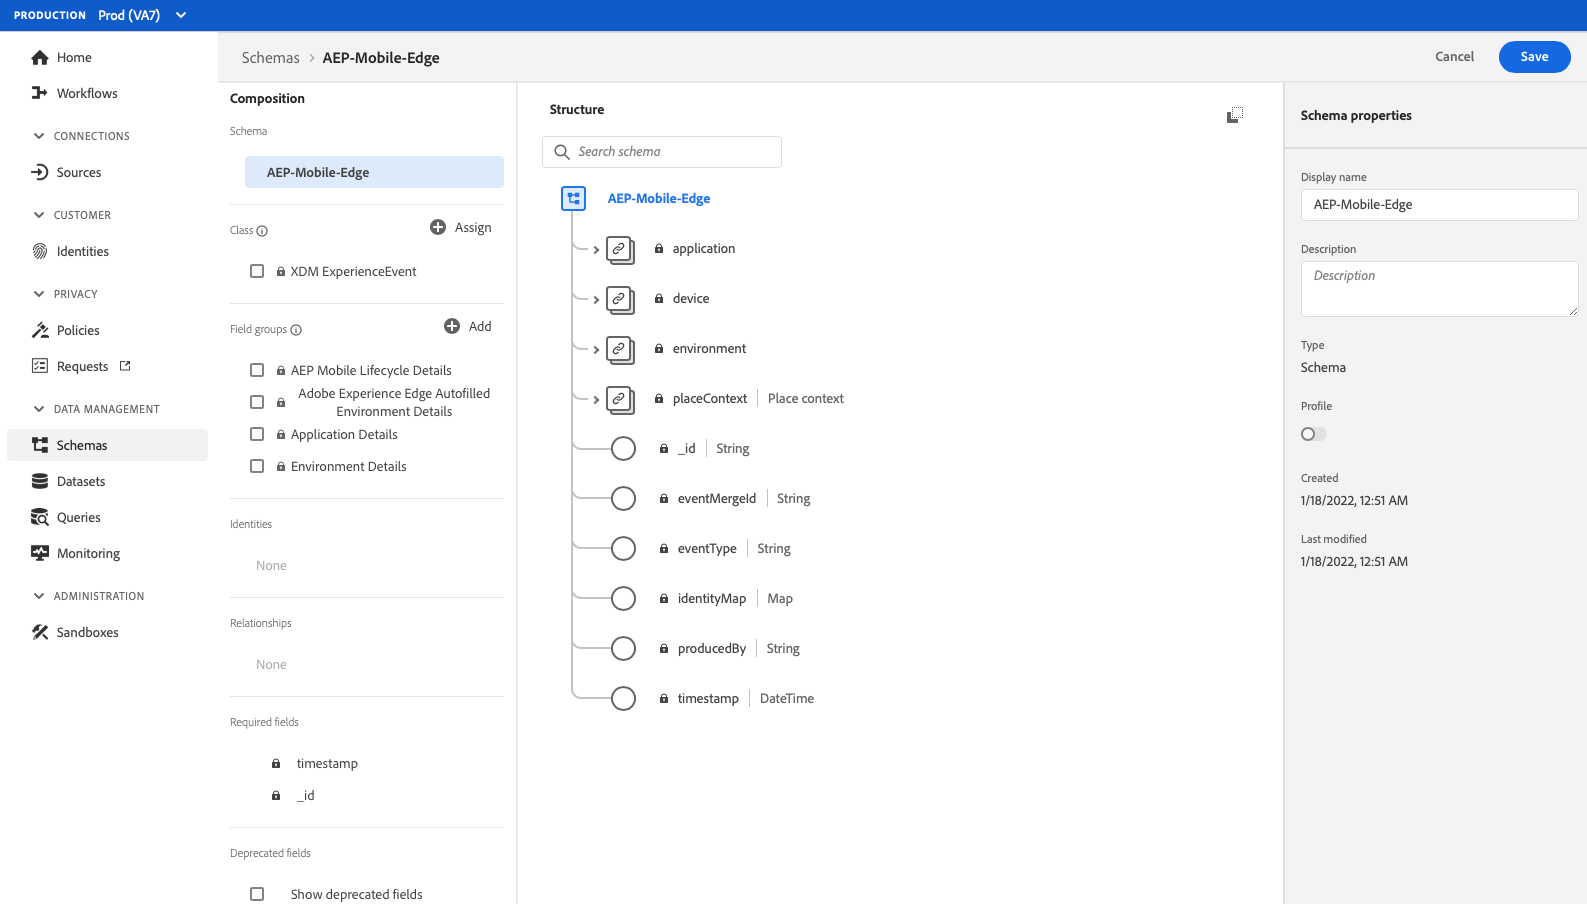
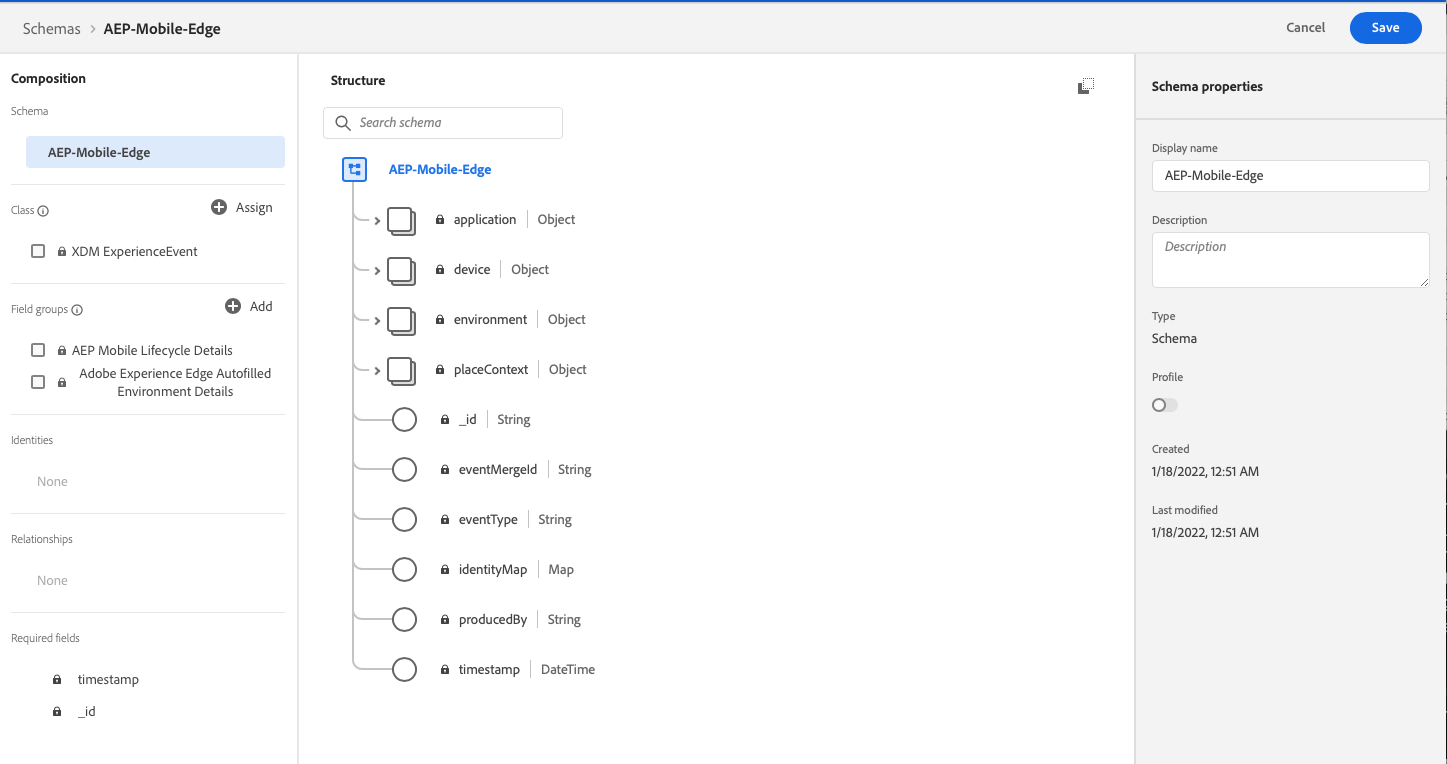
Update with latest review comments
Update with latest review comments

diff --git a/foundation-extensions/experience-platform-extension/edge-network-api-reference.md b/foundation-extensions/experience-platform-extension/edge-network-api-reference.md
@@ -116,10 +116,14 @@ static func sendEvent(experienceEvent: ExperienceEvent, _ completion: (([EdgeEve
 var xdmData : [String: Any] = ["eventType" : "SampleXDMEvent",
                               "sample": "data"]
 let experienceEvent = ExperienceEvent(xdm: xdmData)
+```
 
+```swift
 // example 1 - send the experience event without handling the Edge Network response
 Edge.sendEvent(experienceEvent: experienceEvent)
+```
 
+```swift
 // example 2 - send the experience event and handle the Edge Network response onComplete
 Edge.sendEvent(experienceEvent: experienceEvent) { (handles: [EdgeEventHandle]) in
             // handle the Edge Network response
@@ -135,11 +139,17 @@ Edge.sendEvent(experienceEvent: experienceEvent) { (handles: [EdgeEventHandle]) 
 ```
 
 **Example**
+```objectivec
+//create experience event from dictionary:
+NSDictionary *xdmData = @{ @"eventType" : @"SampleXDMEvent"};
+NSDictionary *data = @{ @"sample" : @"data"};
+```
 
 ```objectivec
 // example 1 - send the experience event without handling the Edge Network response
 [AEPMobileEdge sendExperienceEvent:event completion:nil];
-
+```
+```objectivec
 // example 2 - send the experience event and handle the Edge Network response onComplete
 [AEPMobileEdge sendExperienceEvent:event completion:^(NSArray<AEPEdgeEventHandle *> * _Nonnull handles) {
   // handle the Edge Network response
@@ -217,29 +227,20 @@ Use the AEPMobileCore API to register the Edge extension.
 
 ## resetIdentities
 
-Clears all the states stored in the Edge extension.
+Resets current state of the AEP Edge extension and clears previously cached content related to current identity, if any.
 
 See [MobileCore.resetIdentities](../mobile-core/mobile-core-api-reference.md#resetidentities) for more details.
 
 ## Public classes
 
-### Schema interface
+### XDM Schema
 
+The AEP Edge extension provides the Schema and Property interfaces (Android) / XDMSchema protocol (iOS) that can be used to define the classes associated with your XDM schema in Adobe Experience Platform.
 
 {% tabs %}
 {% tab title="Android" %}
 
 ### Java
-
-**Schema and property interface**
-
-The Edge extension provides the following interfaces:
-
-* Schema
-
-* Property
-
-By using the Edge extension, the **Schema** interface can be used to define the classes that are associated with your defined schema in Adobe Experience Platform.
 
 ```java
 /**
@@ -286,20 +287,13 @@ public interface Property {
     Map<String, Object> serializeToXdm();
 }
 ```
-
-When defining your custom XDM Schema\(s\), implement these interfaces to ensure that the AEP Edge extension successfully serializes the provided data before sending it to Adobe Experience Platform Edge Network.
+When defining your custom XDM schema(s), implement these interfaces to ensure that the AEP Edge extension successfully serializes the provided data before sending it to Adobe Experience Platform Edge Network.
 
 {% endtab %}
 
 {% tab title="iOS (AEP 3.x)" %}
 
 ### Swift
-
-The Edge extension provides the following interface:
-
-* XDMSchema
-
-By using the Edge extension, the **XDMSchema** interface can be used to define the classes that are associated with your defined schema in Adobe Experience Platform.
 
 ```swift
 /// An interface representing a Platform XDM Event Data schema.
@@ -325,7 +319,7 @@ public protocol XDMSchema: Encodable {
 
 ### EdgeEventHandle
 
-The `EdgeEventHandle` is a response fragment from Adobe Experience Platform Edge Service for a sent XDM Experience Event.
+The `EdgeEventHandle` is a response fragment from Adobe Experience Platform Edge Network for a sent XDM Experience Event.
 One event can receive none, one or multiple `EdgeEventHandle`(s) as response.
 
 {% tabs %}
@@ -359,10 +353,6 @@ public class EdgeEventHandle {
 ```swift
 @objc(AEPEdgeEventHandle)
 public class EdgeEventHandle: NSObject, Codable {
-
-    /// Encodes the event to which this handle is attached as the index in the events array in EdgeRequest
-    internal let eventIndex: Int?
-
     /// Payload type
     @objc public let type: String?
 
@@ -390,7 +380,6 @@ public final class ExperienceEvent {
 
   
 public Builder() {...}
-
   /**
     * Sets free form data associated with this event to be passed to Adobe Experience Edge.
     *
@@ -402,11 +391,6 @@ public Builder() {...}
 
   /**
     * Solution specific XDM event data for this event.
-    * If XDM schema is set multiple times using either this API or {@link #setXdmSchema(Map)},
-    * the value will be overwritten and only the last changes are applied.
-    * Setting {@code xdm} to null clears the value.
-    *
-    * This event is sent to the Experience Platform dataset defined by {@link Schema#getDatasetIdentifier()}.
     *
     * @param xdm {@link Schema} information
     * @return instance of current builder
@@ -415,16 +399,7 @@ public Builder() {...}
   public Builder setXdmSchema(final Schema xdm) {...}
 
   /**
-    * Solution specific XDM event data for this event, passed as raw mapping of keys and
-    * Object values.
-    * If XDM schema is set multiple times using either this API or {@link #setXdmSchema(Schema)},
-    * the value will be overwritten and only the last changes are applied.
-    * Setting {@code xdm} to null clears the value.
-    *
-    * When using {@link Edge#sendEvent}
-    * this event is sent to the Experience Platform {@code datasetIdentifier} if provided,
-    * or to the default Experience Platform dataset defined when generating the Experience Edge
-    * configuration ID if {@code datasetIdentifier} is null.
+    * Solution specific XDM event data and dataset identifier for this event.
     *
     * @param xdm {@code Map<String, Object>} of raw XDM schema data
     * @param datasetIdentifier The Experience Platform dataset identifier where this event is sent.
@@ -437,19 +412,14 @@ public Builder() {...}
   /**
     * Solution specific XDM event data for this event, passed as raw mapping of keys and
     * Object values.
-    * If XDM schema is set multiple times using either this API or {@link #setXdmSchema(Schema)},
-    * the value will be overwritten and only the last changes are applied.
-    * Setting {@code xdm} to null clears the value.
-    *
-    * When using {@link Edge#sendEvent} this event is sent to the default
-    * Experience Platform dataset defined when generating the Experience Edge configuration ID.
     *
     * @param xdm {@code Map<String, Object>} of raw XDM schema data
     * @return instance of current builder
     * @throws UnsupportedOperationException if this instance was already built
     */
   public Builder setXdmSchema(final Map<String, Object> xdm) {...}
-/**
+
+  /**
     * Builds and returns a new instance of {@code ExperienceEvent}.
     *
     * @return a new instance of {@code ExperienceEvent} or null if one of the required parameters is missing
@@ -509,6 +479,8 @@ xdmData.setEventType("SampleXDMEvent");
 xdmData.setOtherField("OtherFieldValue");
 
 ExperienceEvent experienceEvent = new ExperienceEvent.Builder()
+  .setXdmSchema(xdmData);
+  .build();
 ```
 
 ```java
@@ -522,31 +494,15 @@ ExperienceEvent experienceEvent = new ExperienceEvent.Builder()
   .setXdmSchema(xdmData, "datasetIdExample")
   .build();
 ```
-
-```java
-//Example 4
-//Create Experience Event from Map:
-Map<String, Object> xdmData = new HashMap<>();
-xdmData.put("eventType", "SampleXDMEvent");
-xdmData.put("sample", "data");
-		
-ExperienceEvent experienceEvent = new ExperienceEvent.Builder()
-  .setXdmSchema(xdmData)
-  .build();
-```
-
 {% endtab %}
 
 {% tab title="iOS (AEP 3.x)" %}
-
-Experience Event is the event to be sent to Adobe Experience Platform Edge Network.
-The XDM data is required for any Experience Event being sent using the Edge extension.
 
 ```swift
 @objc(AEPExperienceEvent)
 public class ExperienceEvent: NSObject {
 
-    /// XDM formatted data, use an `XDMSchema` implementation for a better XDM data injestion and format control
+    /// XDM formatted data, use an `XDMSchema` implementation for a better XDM data injection and format control
     @objc public let xdm: [String: Any]?
 
     /// Optional free-form data associated with this event
@@ -629,15 +585,6 @@ var xdmData : [String: Any] = ["eventType" : "SampleXDMEvent",
 
 let experienceEvent = ExperienceEvent(xdm: xdmData, datasetIdentifier: "datasetIdExample")
 ```
-
-```swift
-//Example 4
-//Create Experience Event from Dictionary:
-var xdmData : [String: Any] = ["eventType" : "SampleXDMEvent",
-                              "sample": "data"]
-let experienceEvent = ExperienceEvent(xdm: xdmData)
-```
-
 {% endtab %}
 
 ### Objective-C
@@ -659,15 +606,6 @@ NSDictionary *xdmData = @{ @"eventType" : @"SampleXDMEvent"};
    
 AEPExperienceEvent *event = [[AEPExperienceEvent alloc] initWithXdm:xdmData data:nil datasetIdentifier:@"datasetIdExample"];
 ```
-
-```objectivec
-//Example 3
-//Create Experience Event from Dictionary:
-NSDictionary *xdmData = @{ @"eventType" : @"SampleXDMEvent"};
-   
-AEPExperienceEvent *event = [[AEPExperienceEvent alloc] initWithXdm:xdmData data:nil datasetIdentifier:nil];
-```
-
 {% endtab %}
 {% endtabs %}
 

diff --git a/foundation-extensions/consent-for-edge-network/README.md b/foundation-extensions/consent-for-edge-network/README.md
@@ -1,13 +1,13 @@
 # Consent for Edge Network
 
-The Adobe Experience Platform Consent mobile extension enables consent preferences collection from your mobile app when using the [Adobe Experience Platform Mobile SDK](../../foundation-extensions/mobile-core) and the [Edge Network extension](../experience-platform-extension).
+The Adobe Experience Platform Consent mobile extension enables consent preferences collection from your mobile app when using the [Adobe Experience Platform Mobile SDK](../mobile-core) and the [Edge Network extension](../experience-platform-extension).
 
 ## Configure the Adobe Experience Platform Consent extension in Data Collection UI
 
 1. In Data Collection UI, in your mobile property, select the **Extensions** tab.
 2. On the **Catalog** tab, locate or search for the **Consent** extension, and select **Install**.
 3. Set your desired default consent level.
-4. Click **Save**.
+4. Select **Save**.
 5. Follow the publishing process to update SDK configuration.
 
 ![AEP Consent extension configuration](../../.gitbook/assets/mobile-edge-consent-launch-configuration.png)

diff --git a/getting-started/setup-schemas-and-datasets.md b/getting-started/setup-schemas-and-datasets.md
@@ -36,7 +36,7 @@ The following steps illustrate the creation of a sample schema for mobile data c
    1. From the left panel, select Schemas
    2. Select **Create schema**
    3. Select **XDM Experience event**
-   4. Under **Field Groups**, select **Add**; search and add the `Environment Details`,`Application Details`, `Adobe Experience Edge Autofilled Environment Details`, `AEP Mobile Lifecycle Details` and other pre-created or custom field groups as needed.
+   4. Under **Field Groups**, select **Add**; search and add the `Adobe Experience Edge Autofilled Environment Details`, `AEP Mobile Lifecycle Details` and other pre-created or custom field groups as needed.
    5. Set a **Display Name** for this schema and select `Save`.
 
 ![Schema creation in Adobe Experience Platform](https://gblobscdn.gitbook.com/assets%2F-Lf1Mc1caFdNCK_mBwhe%2Fsync%2Ffe309e8b2ebd1c7573cf23ccdab56f406b4aa822.png?alt=media)

diff --git a/foundation-extensions/experience-platform-extension/README.md b/foundation-extensions/experience-platform-extension/README.md
@@ -11,7 +11,7 @@ The Adobe Experience Platform Edge Network extension requires the Identity for E
 1. In Data Collection UI, in your mobile property, select the **Extensions** tab.
 2. On the **Catalog** tab, locate or search for the **Adobe Experience Platform Edge Network** extension, and select **Install**.
 3. Type in the extension settings. For more information, see [Configure datastreams](../../getting-started/configure-datastreams.md) and [datastreams](./#datastreams).
-4. Click **Save**.
+4. Select **Save**.
 5. Follow the publishing process to update SDK configuration.
 
 ### Configure the Edge Network extension

diff --git a/foundation-extensions/identity-for-edge-network/README.md b/foundation-extensions/identity-for-edge-network/README.md
@@ -7,7 +7,7 @@ The Adobe Experience Platform Identity mobile extension enables identity managem
 1. In Data Collection UI, in your mobile property, select the **Extensions** tab.
 2. On the **Catalog** tab, locate or search for the **Identity** extension, and select **Install**.
 3. There are no configuration settings for **Identity**.
-4. Click **Save**.
+4. Select **Save**.
 5. Follow the publishing process to update SDK configuration.
 
 ![AEP Identity for Edge Network extension configuration](../../.gitbook/assets/mobile-edge-identity-launch-configuration.png)

diff --git a/foundation-extensions/identity-for-edge-network/api-reference.md b/foundation-extensions/identity-for-edge-network/api-reference.md
@@ -347,7 +347,7 @@ The Identity for Edge Network extension does not read the Mobile SDK's privacy s
 
 See [MobileCore.resetIdentities](../mobile-core/mobile-core-api-reference.md#resetidentities) for more details.
 
-## updateIdentities <a id="updateIdentities"></a>
+## updateIdentities
 
 Update the currently known identities within the SDK. The Identity extension will merge the received identifiers with the previously saved ones in an additive manner, no identities are removed from this API.
 
